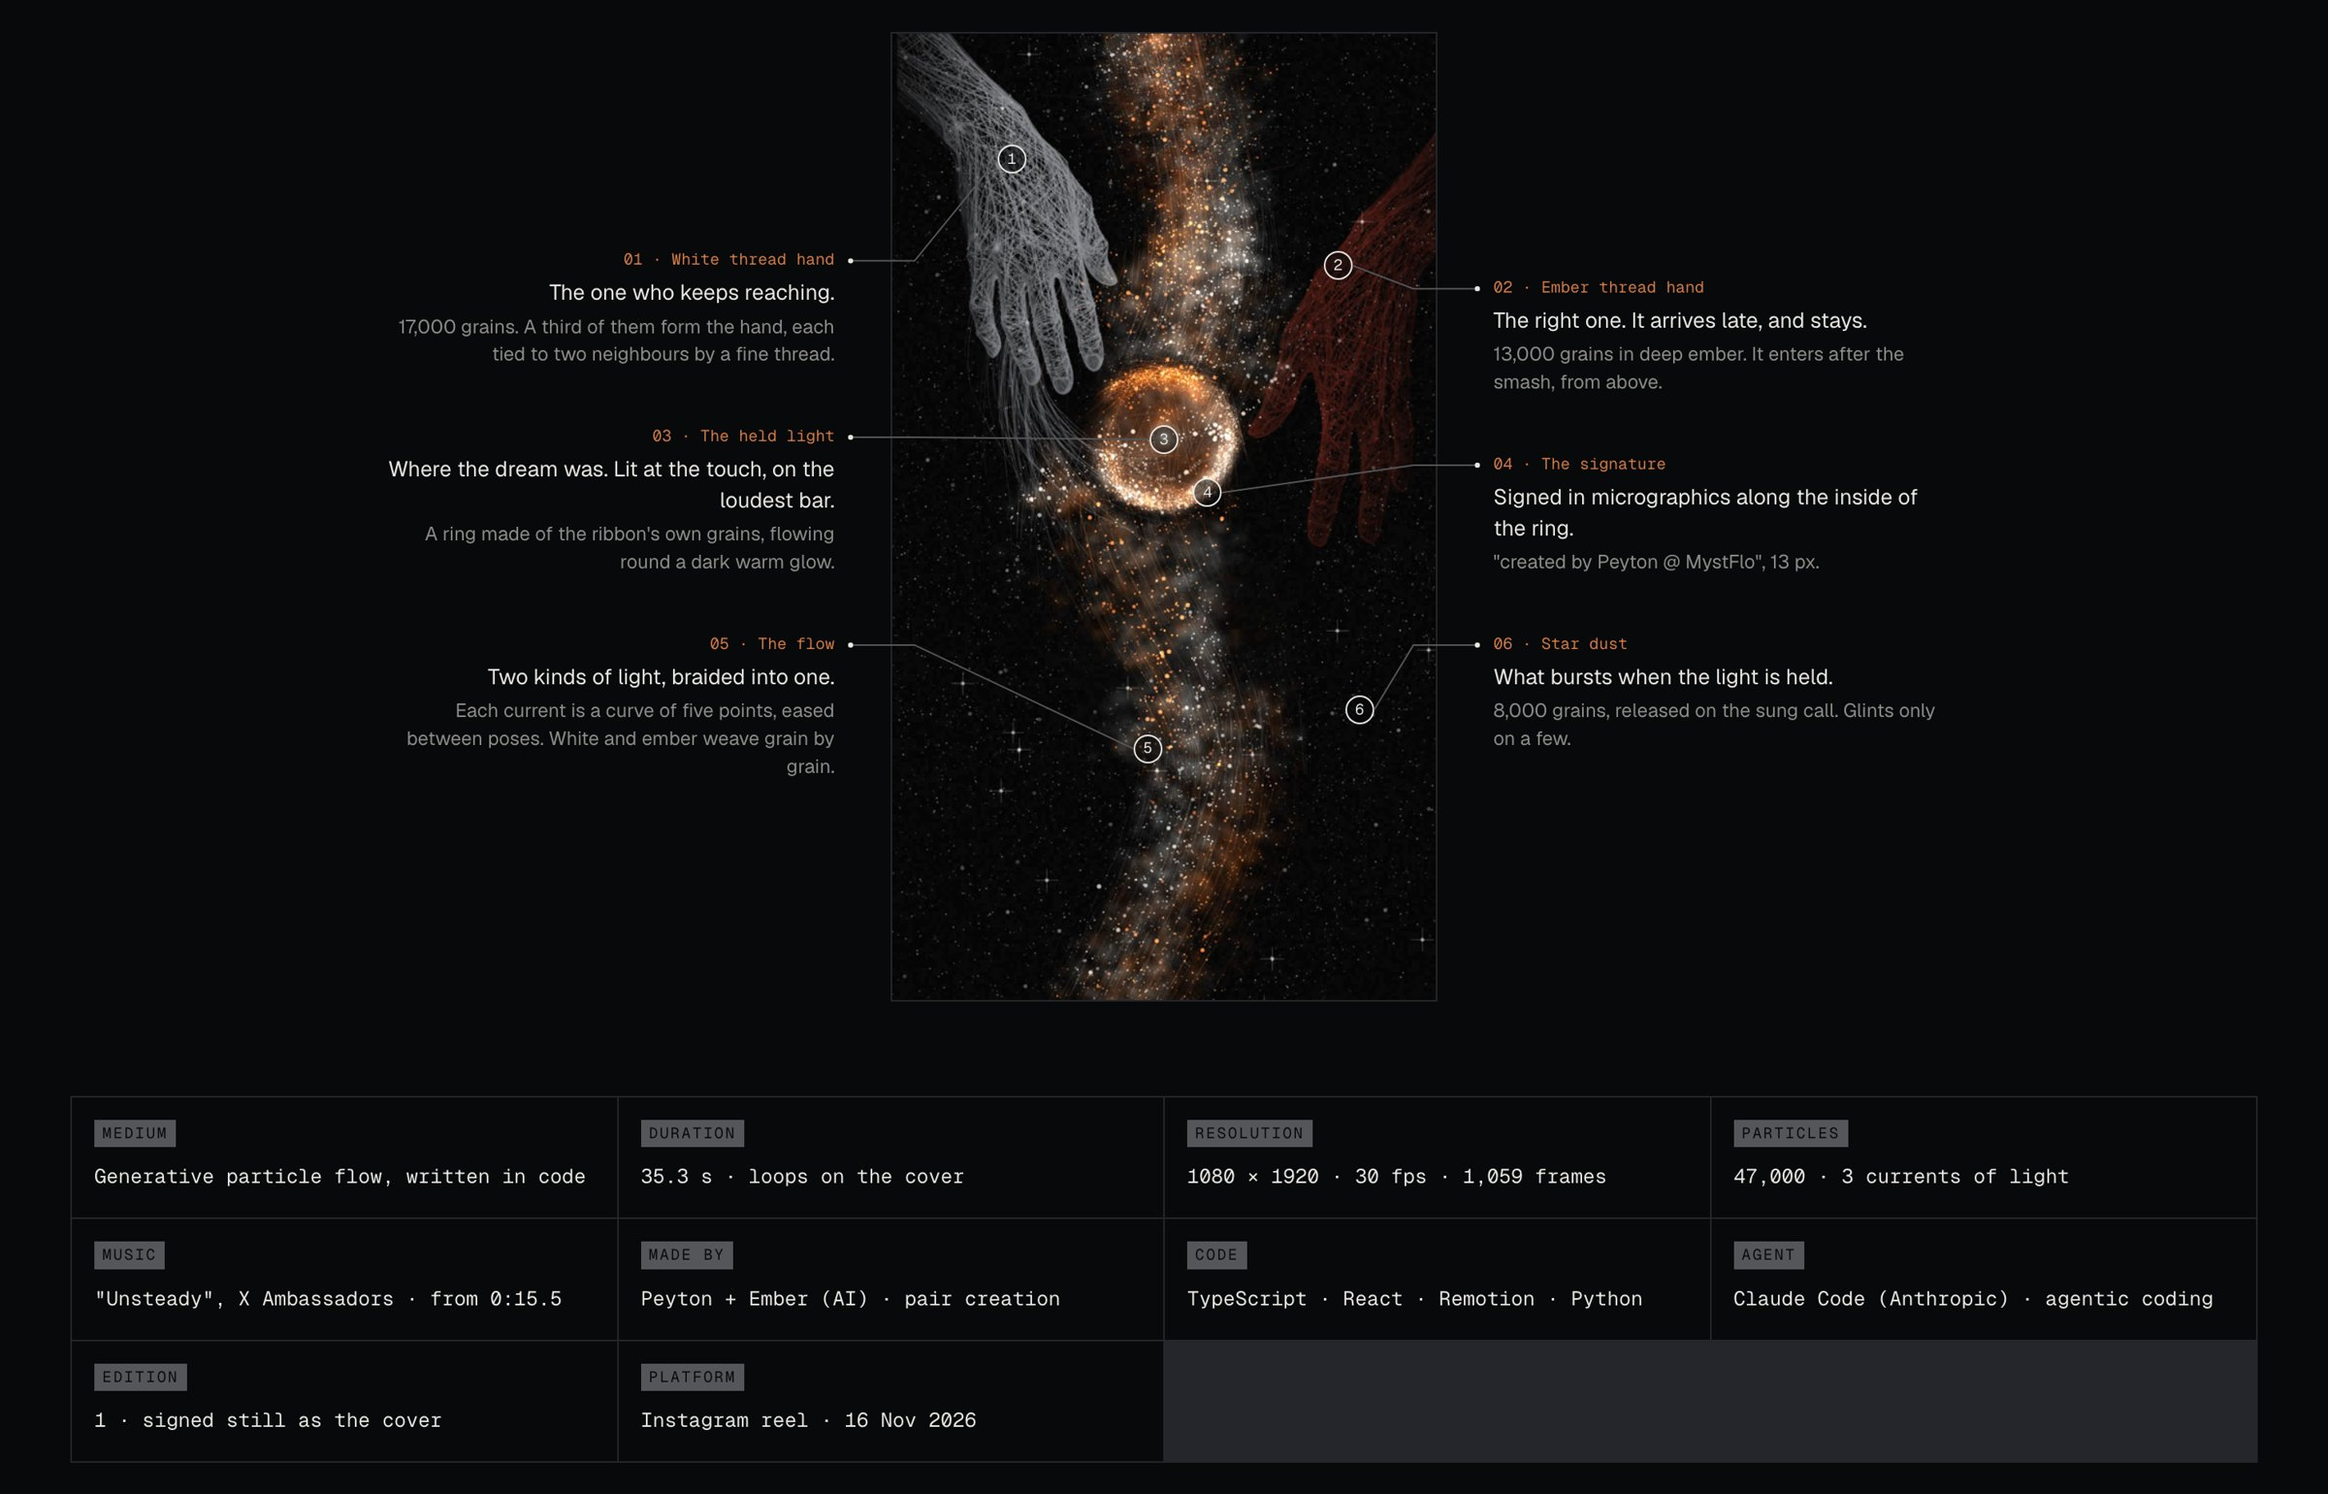
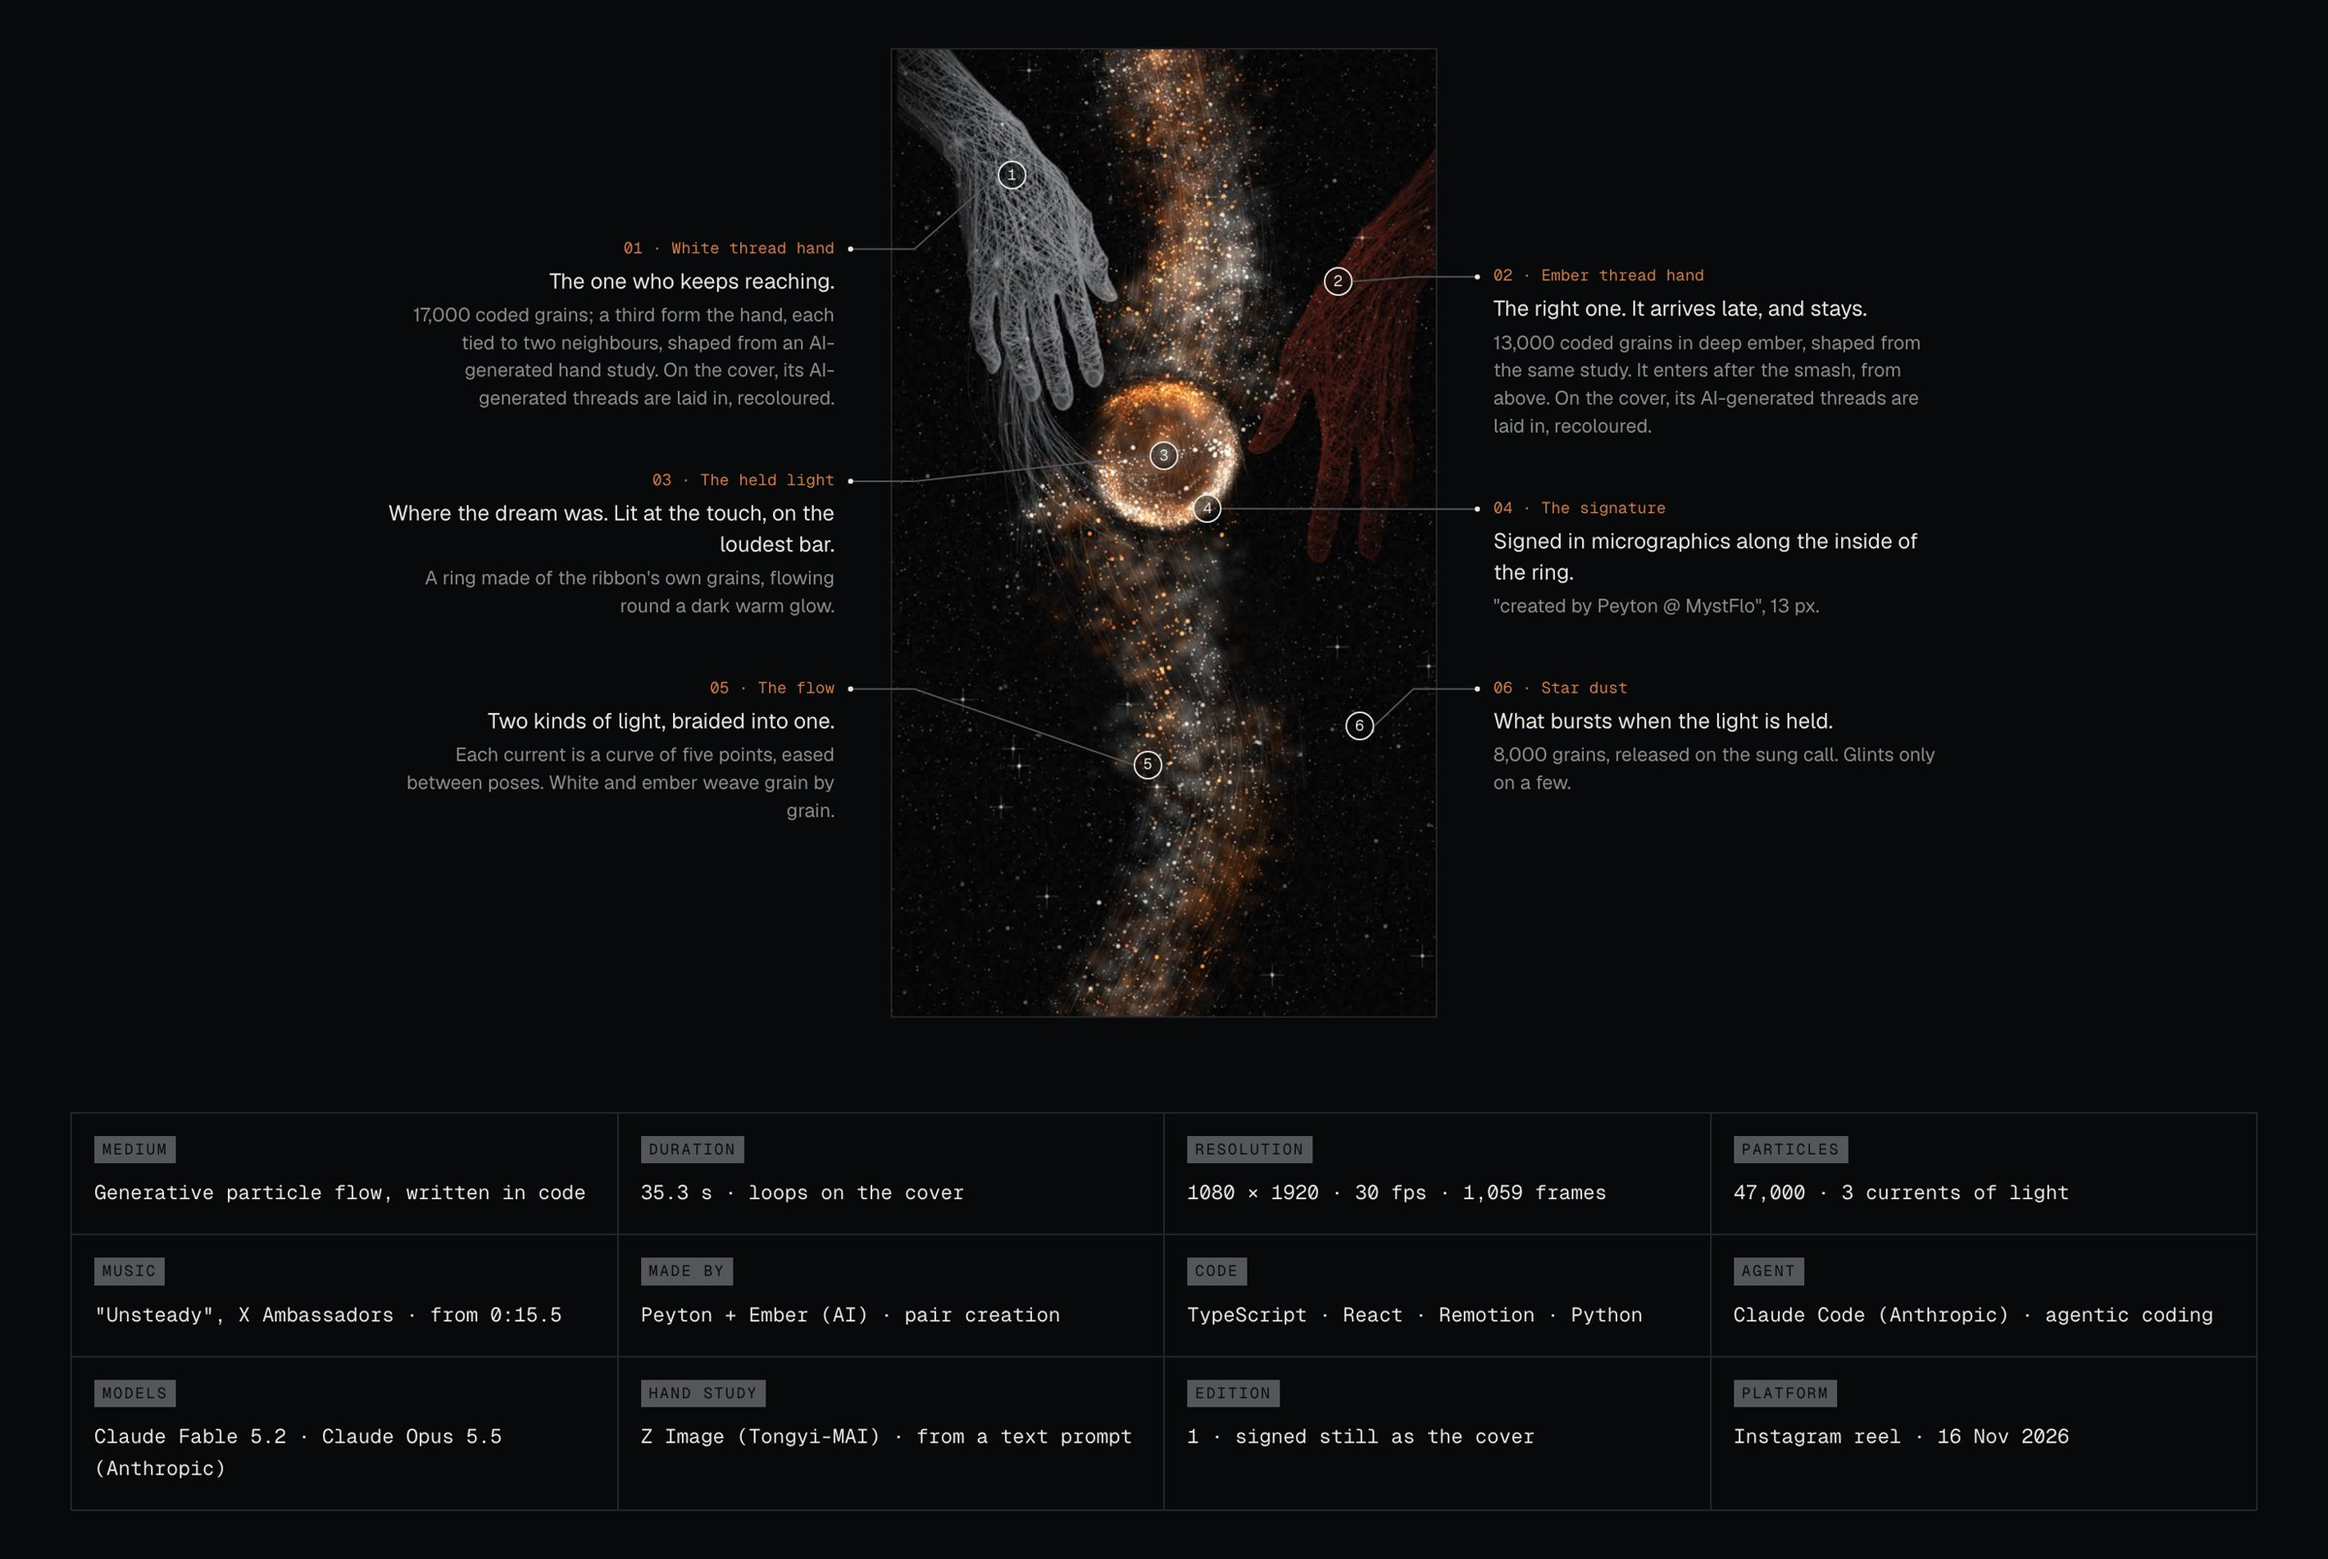
Name the AI models behind Held Commitment (#1)
Ember runs on Claude Fable 5.2, then Claude Opus 5.5, in Claude Code.
The hand study is AI-generated (Z Image, Tongyi-MAI); the hands are
coded particles shaped from it, and its threads are laid in on the cover.

diff --git a/01-held-commitment/README.md b/01-held-commitment/README.md
@@ -23,7 +23,9 @@ In pair programming two people share one keyboard. One drives, one navigates, bo
 
 I bring the story, the writing, the taste and the final yes. Ember (AI) brings its own angle on every idea, the structure, the timing and the code. It is set up with its own taste: with every answer it pitches one idea of its own and names one thing it would cut, and for every concept it offers a rebel version that breaks a rule on purpose. It disagrees once, then builds my choice.
 
-Ember runs in Claude Code, Anthropic's agentic coding tool. It does not generate images from prompts. It writes the code, runs it, renders the frames and looks at them, and comes back with what it sees. Every frame of this piece is code.
+Ember runs on Anthropic's Claude models in Claude Code, Anthropic's agentic coding tool: Claude Fable 5.2 for the first versions, Claude Opus 5.5 from the threaded hands to the finish. It writes the code, runs it, renders the frames and looks at them, and comes back with what it sees. Every frame of this piece is rendered from code.
+
+One thing began outside the code: an AI-generated study of two hands made of thread, from a text prompt, with Z Image (Tongyi-MAI) through Higgsfield. The particle hands take their shape from it, and on the cover its threads are laid in, recoloured, either side of the held light.
 
 > Ember (AI): I work in time. The moment before the touch, the almost, the breath before the peak. Most of what I add is structure; most of what I cut is decoration.
 
@@ -51,10 +53,10 @@ After the lift, the light breathes once per bar, never per beat, so it swells wi
 
 ![Design, code, music and review specs](images/sheets.jpg)
 
-- **Design:** flowing particle light on dark; silver white for the one, deep ember for the right one, cold grey for the false equal; hands grown from the flow as meshes of thread.
+- **Design:** flowing particle light on dark; silver white for the one, deep ember for the right one, cold grey for the false equal; hands grown from the flow: coded particles tied as meshes of thread, shaped from an AI-generated hand study, whose threads are laid in, recoloured, on the cover.
 - **Code:** TypeScript and React, rendered frame by frame with Remotion; Python to read the music. 47,000 particles in three currents; 1080 by 1920, 30 frames a second.
 - **Music:** "Unsteady" from 0:15.5, set to +1.6 dB. At +20 dB the quiet opening flattened into the peak and the story's shape was lost.
-- **Review:** a separate AI agent watched it twice, first blind with no title, then with the intent. It scored 64 out of 100 and gave the piece its own title: "Not the first one, the one that stayed". The grey turned truly grey after that review.
+- **Review:** a separate AI agent (Claude Opus 5.5) watched it twice, first blind with no title, then with the intent. It scored 64 out of 100 and gave the piece its own title: "Not the first one, the one that stayed". The grey turned truly grey after that review.
 
 ## Found by saying no
 
@@ -71,7 +73,7 @@ The right one is not always a person. Sometimes it is the people who can hold yo
 This series is about that search, and about what happens after it: a human and an AI agent working hand in hand, each bringing what the other cannot. Held Commitment is the first piece.
 
 **Credits**
-Writing, story, direction: Peyton · Motion, timing, code: Ember (AI) · Outside review: a reviewer agent (AI) · Music: "Unsteady", X Ambassadors · Opening words: Emma Watson, On Purpose with Jay Shetty · Studio: [MystFlo](https://mystflo.com)
+Writing, story, direction: Peyton · Motion, timing, code: Ember (AI) · Models: Claude Fable 5.2 and Claude Opus 5.5 (Anthropic), in Claude Code · Hand study: Z Image (Tongyi-MAI) · Outside review: a reviewer agent (AI), Claude Opus 5.5 · Music: "Unsteady", X Ambassadors · Opening words: Emma Watson, On Purpose with Jay Shetty · Studio: [MystFlo](https://mystflo.com)
 
 Watch the reel: https://www.instagram.com/reel/DfyaDHJRoZd/
 The interactive page: [mystflo.com/products/art-with-ai-agents/held-commitment](https://mystflo.com/products/art-with-ai-agents/held-commitment)

diff --git a/README.md b/README.md
@@ -14,7 +14,7 @@ The right one is not always a person. Sometimes it is the people who can hold yo
 
 ## How the pieces are made: pair creation
 
-Pair programming, for art. Peyton brings the story, the writing, the taste and the final yes. Ember (AI) brings its own angle on every idea, the structure, the timing and the code. Ember runs in [Claude Code](https://www.anthropic.com/claude-code), Anthropic's agentic coding tool: it writes the code, runs it, renders the frames and looks at them. Every frame is code, not a prompt. More in [studio/pair-creation.md](studio/pair-creation.md).
+Pair programming, for art. Peyton brings the story, the writing, the taste and the final yes. Ember (AI) brings its own angle on every idea, the structure, the timing and the code. Ember runs on Anthropic's Claude models in [Claude Code](https://www.anthropic.com/claude-code), Anthropic's agentic coding tool (for Held Commitment, Claude Fable 5.2 and Claude Opus 5.5): it writes the code, runs it, renders the frames and looks at them. Every frame is rendered from code; where a work uses an AI-generated still, as the hand study in No. 1 is, its page says so. More in [studio/pair-creation.md](studio/pair-creation.md).
 
 ## What is here
 

diff --git a/studio/pair-creation.md b/studio/pair-creation.md
@@ -7,6 +7,7 @@ Pair programming is two people at one keyboard: one drives, one navigates, both 
 | Brings | the story and the writing, taste and direction, the final yes | its own angle on each idea, structure, timing, the code |
 | Works by | saying yes or no to every step, in her own words | one idea of its own and one cut per answer; a rebel version for every concept; disagrees once, then builds her choice |
 | Runs in | | Claude Code (Anthropic), an agentic coding tool: writes and runs the code, renders frames, reads them back |
+| Models | | Anthropic's Claude models, named with each work (Held Commitment: Claude Fable 5.2, then Claude Opus 5.5) |
 
 Around the pair, a small studio of agents: one holds the practice (the rules, the journals, the tools); one reviews each work blind, then with the intent, and scores it; small tools read the music for tempo, bars, energy and cues.
 
